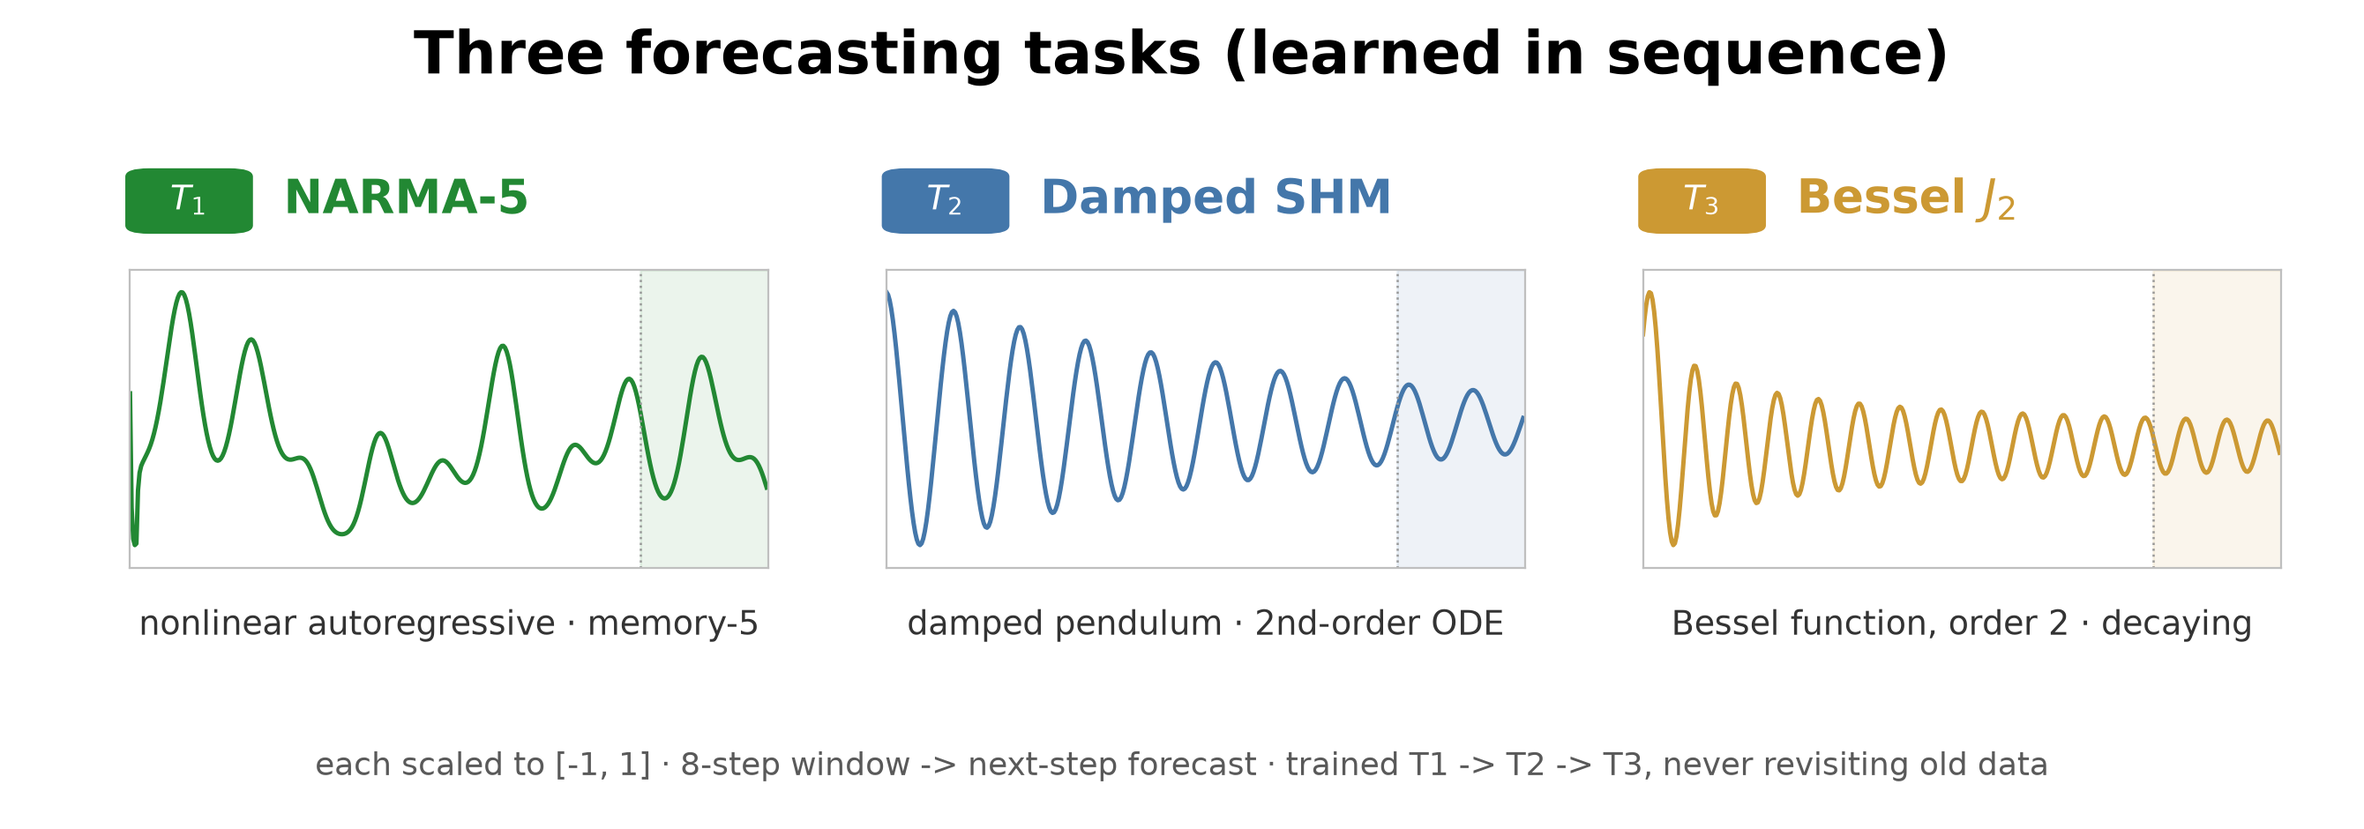
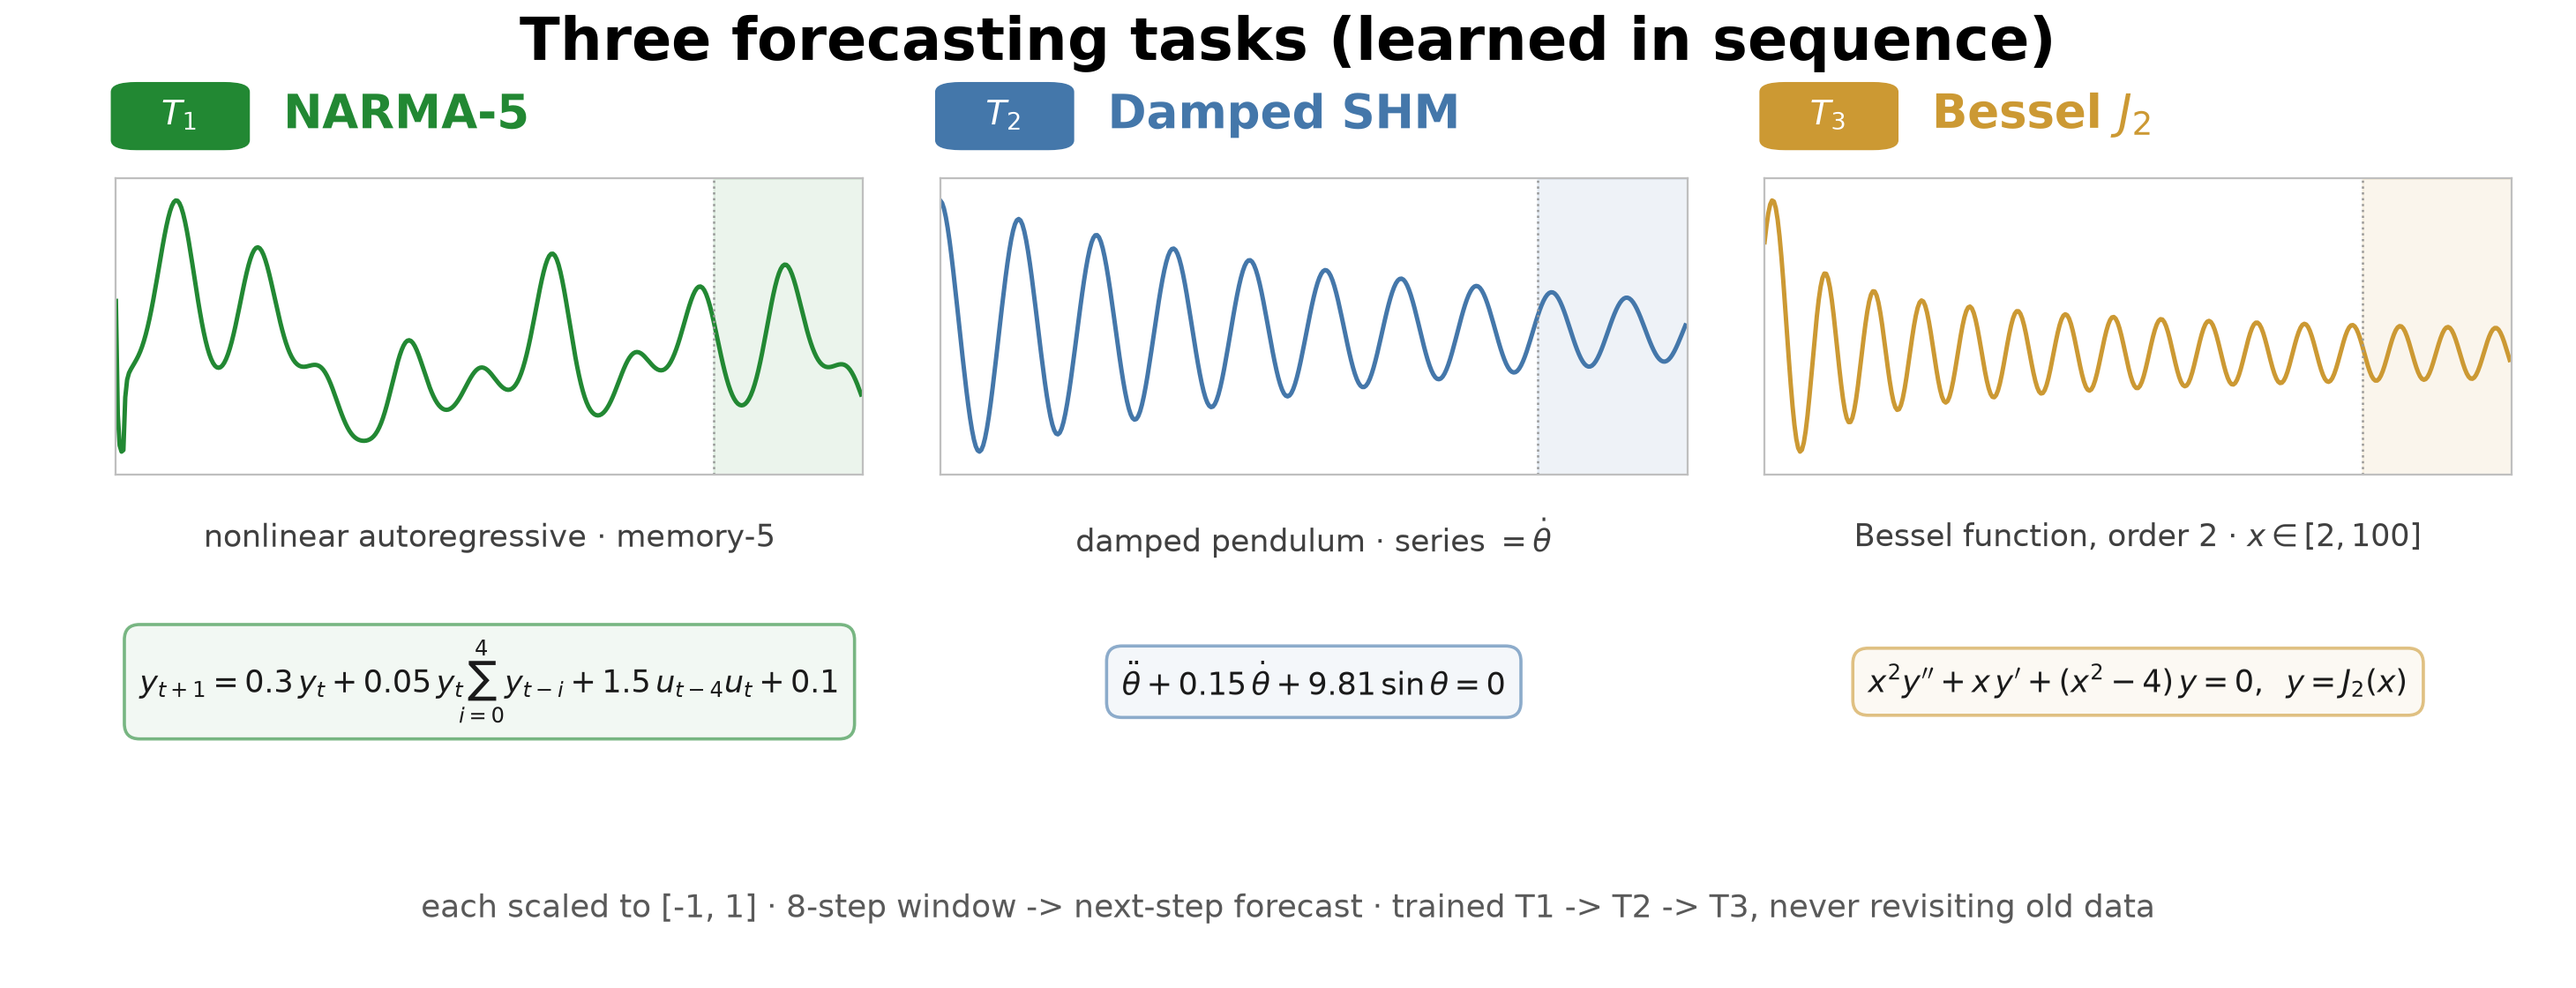
Add generating formulas to the datasets figure
Each panel now shows the series' actual formula below it (verified vs src/e009_data.py):
NARMA-5 recurrence, damped-pendulum ODE, and the order-2 Bessel equation.

diff --git a/scripts/e009_pitch_figs.py b/scripts/e009_pitch_figs.py
@@ -28,11 +28,14 @@ LBLUE, LBLUE_E = "#D6E3F0", "#5E86BC"
 HEAD, HEAD_E = "#ECE6F4", "#8877AA"
 BLUE, RED, GREEN = "#4477AA", "#CC3311", "#228833"
 
-# (code name, T-label, display name, one-line "what it is", color)
+# (code name, T-label, display name, one-line "what it is", color, generating formula)
 DATASETS = [
-    ("narma_5", "$T_1$", "NARMA-5", "nonlinear autoregressive · memory-5", GREEN),
-    ("damped_shm", "$T_2$", "Damped SHM", "damped pendulum · 2nd-order ODE", BLUE),
-    ("bessel_j2", "$T_3$", "Bessel $J_2$", "Bessel function, order 2 · decaying", "#CC9933"),
+    ("narma_5", "$T_1$", "NARMA-5", "nonlinear autoregressive · memory-5", GREEN,
+     r"$y_{t+1}=0.3\,y_t+0.05\,y_t\!\sum_{i=0}^{4}y_{t-i}+1.5\,u_{t-4}u_t+0.1$"),
+    ("damped_shm", "$T_2$", "Damped SHM", r"damped pendulum · series $=\dot{\theta}$", BLUE,
+     r"$\ddot{\theta}+0.15\,\dot{\theta}+9.81\,\sin\theta=0$"),
+    ("bessel_j2", "$T_3$", "Bessel $J_2$", r"Bessel function, order 2 · $x\in[2,100]$", "#CC9933",
+     r"$x^2y''+x\,y'+(x^2-4)\,y=0,\;\; y=J_2(x)$"),
 ]
 
 
@@ -151,19 +154,19 @@ def draw_data(output: Path) -> None:
 
     from src.e009_data import _SERIES
 
-    fig = plt.figure(figsize=(13.4, 4.7))
+    fig = plt.figure(figsize=(14.6, 5.6))
     cv = fig.add_axes([0, 0, 1, 1])
     cv.set_xlim(0, 1)
     cv.set_ylim(0, 1)
     cv.axis("off")
-    cv.text(0.5, 0.93, "Three forecasting tasks (learned in sequence)", ha="center", va="center",
+    cv.text(0.5, 0.955, "Three forecasting tasks (learned in sequence)", ha="center", va="center",
             fontsize=24, fontweight="bold")
 
     xcs = [0.19, 0.51, 0.83]
-    for xc, (code, tlab, name, blurb, col) in zip(xcs, DATASETS):
+    for xc, (code, tlab, name, blurb, col, formula) in zip(xcs, DATASETS):
         s = _scaled(_SERIES[code]())
         n = len(s)
-        axs = fig.add_axes([xc - 0.135, 0.315, 0.27, 0.36])
+        axs = fig.add_axes([xc - 0.145, 0.52, 0.29, 0.30])
         axs.plot(s, color=col, lw=1.8)
         axs.axvspan(int(0.8 * n), n, color=col, alpha=0.09)   # held-out test tail
         axs.axvline(int(0.8 * n), color="0.6", lw=0.9, ls=":")
@@ -174,19 +177,22 @@ def draw_data(output: Path) -> None:
         for sp in axs.spines.values():
             sp.set_edgecolor("0.75")
         # T-badge + big name above
-        cv.add_patch(FancyBboxPatch((xc - 0.135, 0.72), 0.05, 0.075,
+        cv.add_patch(FancyBboxPatch((xc - 0.145, 0.85, ), 0.05, 0.065,
                                     boxstyle="round,pad=0.002,rounding_size=0.01",
                                     linewidth=0, facecolor=col, zorder=3))
-        cv.text(xc - 0.11, 0.7575, tlab, ha="center", va="center", color="white",
+        cv.text(xc - 0.12, 0.8825, tlab, ha="center", va="center", color="white",
                 fontsize=14, fontweight="bold", zorder=4)
-        cv.text(xc - 0.07, 0.7575, name, ha="left", va="center", color=col,
+        cv.text(xc - 0.08, 0.8825, name, ha="left", va="center", color=col,
                 fontsize=19, fontweight="bold")
-        cv.text(xc, 0.245, blurb, ha="center", va="center", fontsize=13.5, color="0.2")
+        cv.text(xc, 0.455, blurb, ha="center", va="center", fontsize=12.5, color="0.25")
+        cv.text(xc, 0.31, formula, ha="center", va="center", fontsize=12.5, color="0.1",
+                bbox=dict(boxstyle="round,pad=0.5", fc=mcolors.to_rgba(col, 0.06),
+                          ec=mcolors.to_rgba(col, 0.6), lw=1.3))
     # train/test labels on the first panel only
-    cv.text(xcs[0] - 0.055, 0.34, "train", ha="center", va="center", fontsize=10, color="0.45")
-    cv.text(xcs[0] + 0.10, 0.34, "test", ha="center", va="center", fontsize=10, color="0.45")
+    cv.text(xcs[0] - 0.05, 0.565, "train", ha="center", va="center", fontsize=10, color="0.45")
+    cv.text(xcs[0] + 0.105, 0.565, "test", ha="center", va="center", fontsize=10, color="0.45")
 
-    cv.text(0.5, 0.075, "each scaled to [-1, 1] · 8-step window -> next-step forecast · "
+    cv.text(0.5, 0.08, "each scaled to [-1, 1] · 8-step window -> next-step forecast · "
             "trained T1 -> T2 -> T3, never revisiting old data",
             ha="center", va="center", fontsize=13, color="0.35")
 

diff --git a/E009_QPU_FINDINGS.md b/E009_QPU_FINDINGS.md
@@ -74,7 +74,7 @@ simplified 17**) on the same backend. R² = 1 − NMSE, mean over 3 seeds:
 
 ## Figures
 - `figures/e009_datasets.png` — big-font intro to the three forecasting tasks (NARMA-5, damped SHM,
-  Bessel J2): real series, held-out test tail shaded, one-line description each.
+  Bessel J2): real series, held-out test tail shaded, one-line description + generating formula each.
 - `figures/e009_r2_metric.png` — the accuracy metric definition card: R^2 = 1 - NMSE, with NMSE
   expanded to the coefficient-of-determination form.
 - `figures/e009_arch.png` — big-font pitch schematic of the model: |0> -> U(x) encode -> V(theta)
